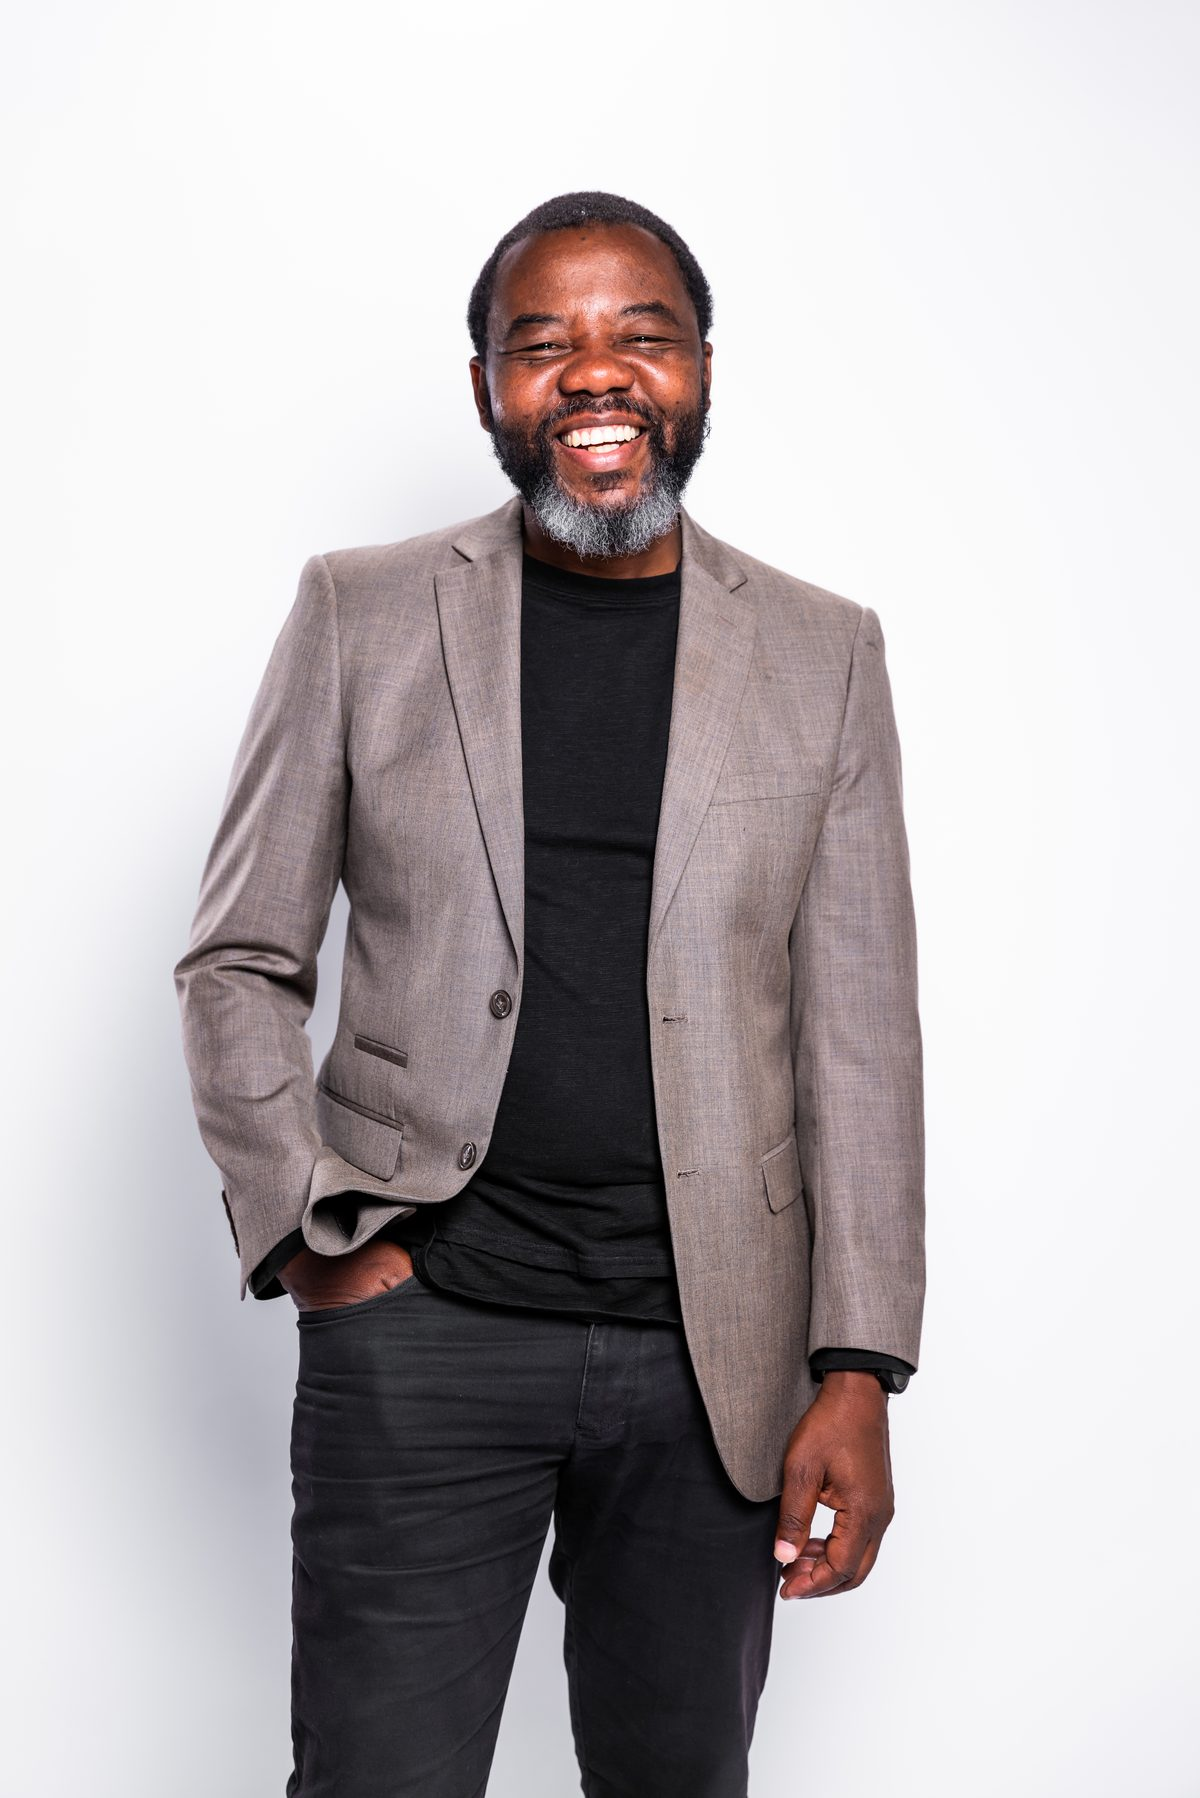
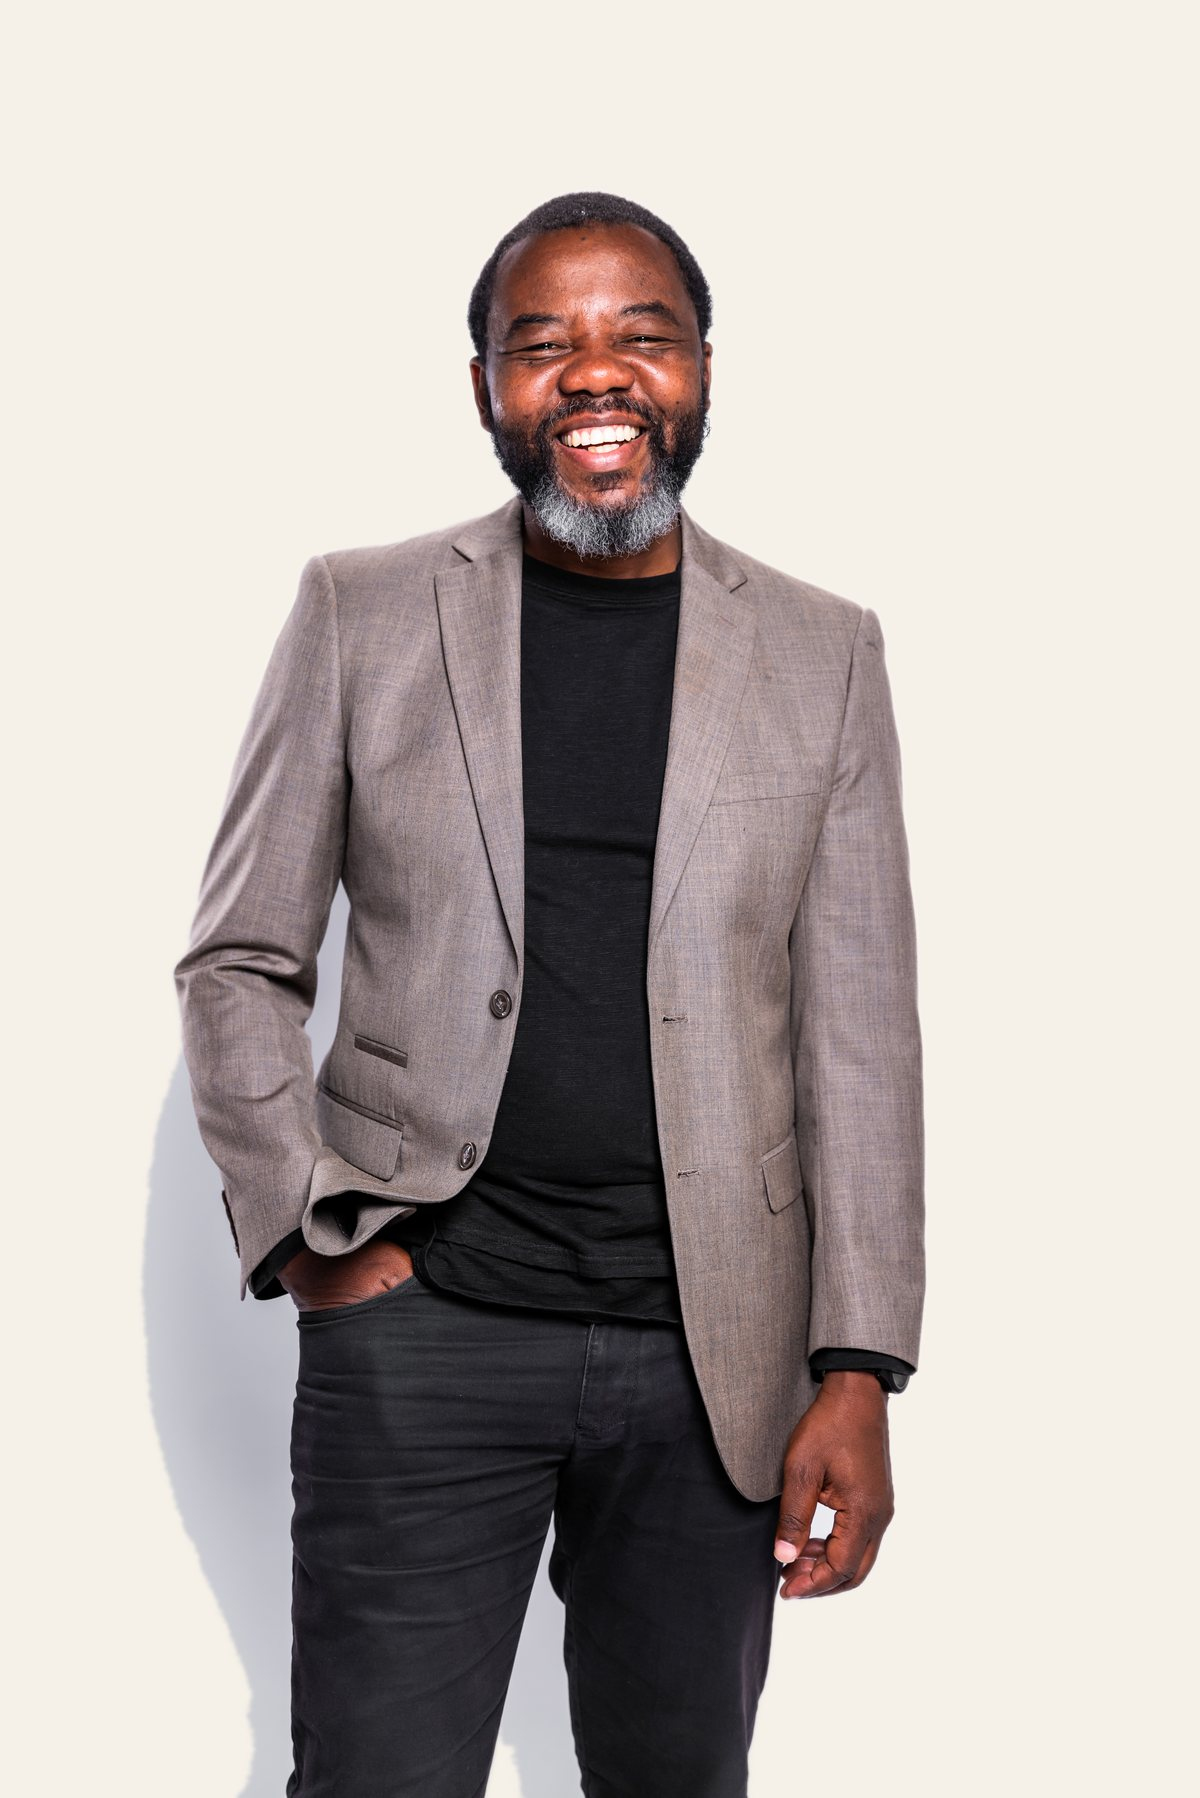
Recolor headshot background to site cream; float in hero
- Replace white studio background with --color-bg (#f6f1e8) via a
  border-connected cutout mask, so the subject blends into the page
- Drop the white framing box in the hero; the image now floats

Changed region(s): [[0.0617, 0.4983, 0.2158, 1.0], [0.6167, 0.8721, 0.6783, 0.9967], [0.4008, 0.9655, 0.4317, 1.0]]

diff --git a/app/speaking/page.tsx b/app/speaking/page.tsx
@@ -114,18 +114,13 @@ export default function Page() {
           </div>
 
           <div className="relative mx-auto w-full max-w-sm md:max-w-none">
-            <div
-              aria-hidden="true"
-              className="absolute inset-0 translate-x-3 translate-y-3 border border-[var(--color-copper)]/40"
+            {/* Background recolored to --color-bg so the subject floats on the page. */}
+            {/* eslint-disable-next-line @next/next/no-img-element */}
+            <img
+              src={HEADSHOT_SRC}
+              alt="Sid Mofya"
+              className="w-full aspect-[4/5] object-cover object-top"
             />
-            <div className="relative border border-[var(--color-rule)] bg-[var(--color-bg-elev)] p-2">
-              {/* eslint-disable-next-line @next/next/no-img-element */}
-              <img
-                src={HEADSHOT_SRC}
-                alt="Sid Mofya"
-                className="w-full aspect-[4/5] object-cover object-top"
-              />
-            </div>
           </div>
         </div>
       </Section>
